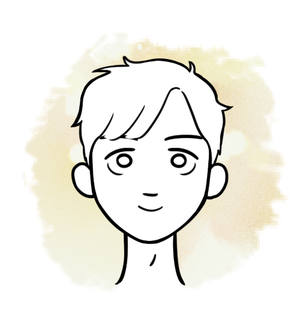
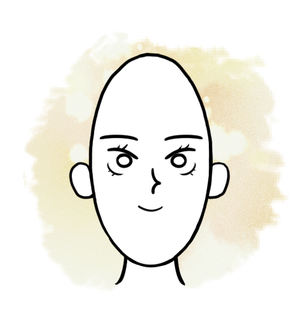
수정

diff --git a/김부용 코드/templates/index.html b/김부용 코드/templates/index.html
@@ -1,7 +1,18 @@
 <!doctype html>
 <html lang="ko">
   <head>
-  <meta charset="utf-8">
+    <meta charset="utf-8">
+    <!-- 1990년 이후 이 페이지의 캐시를 만료시킴. -->
+    <meta http-equiv="Expires" content="Mon, 06 Jan 1990 00:00:01 GMT" />
+
+    <!-- 캐시를 바로 만료시킴. -->
+    <meta http-equiv="Expires" content="-1" />
+
+    <!-- 페이지 로드시마다 페이지를 캐싱하지 않음. (HTTP 1.0) -->
+    <meta http-equiv="Pragma" content="no-cache" />
+
+    <!-- 페이지 로드시마다 페이지를 캐싱하지 않음. (HTTP 1.1) -->
+    <meta http-equiv="Cache-Control" content="no-cache" />
     <title>잘 그려줘!</title>
     <style>
       * {
@@ -14,13 +25,14 @@
     integrity="sha256-/xUj+3OJU5yExlq6GSYGSHk7tPXikynS7ogEvDej/m4="
     crossorigin="anonymous"></script>
   </head>
+
   <body>
     
     <section class="imagesection">
         <h1>잘 그려줘!</h1>
         <h2>2021-2 상명대학교 자연어처리</h2>
         <p> {% if data %}
-            <img class="image" id="imgId" src="{{ url_for('static', filename='images/default2.png')}}" alt="My Image">
+            <img class="image" id="imgId" src="static/images/default2.png?{{data}}" alt="My Image">
             {% else %}
             <img class="image" id="imgId" src="{{ url_for('static', filename='images/default.png')}}" alt="My Image">
             {% endif %}

diff --git a/김부용 코드/face_maker.py b/김부용 코드/face_maker.py
@@ -51,8 +51,12 @@ def face_maker(e_shape_pred = 1, f_shape_pred = 1, h_curl_pred = 1,
 
     bg = Image.open(bg_path)
 
-    back_hair_mask = Image.open(back_hair_mask_path + ".png")
-    back_hair = Image.open(back_hair_path + ".png")
+    if h_length_pred !="민머리":
+        back_hair_mask = Image.open(back_hair_mask_path + ".png")
+        back_hair = Image.open(back_hair_path + ".png")
+    
+        h_bang_mask = Image.open(h_bang_mask_path + ".png")
+        h_bang = Image.open(h_bang_path + ".png")
 
     neck_mask = Image.open(neck_mask_path + ".png")
     neck = Image.open(neck_path + ".png")
@@ -68,12 +72,11 @@ def face_maker(e_shape_pred = 1, f_shape_pred = 1, h_curl_pred = 1,
     e_shape2 = Image.open(e_shape_path2 + ".png")
     e_shape3 = Image.open(e_shape_path3 + ".png")
 
-    h_bang_mask = Image.open(h_bang_mask_path + ".png")
-    h_bang = Image.open(h_bang_path + ".png")
+    if h_length_pred !="민머리":
+        face_components = [bg, back_hair_mask, back_hair, neck_mask, neck, f_shape_mask, f_shape, f_shape2, nose, e_shape, e_shape2, h_bang_mask, h_bang]
+    else:
+        face_components = [bg, neck_mask, neck, f_shape_mask, f_shape, f_shape2, nose, e_shape, e_shape2]
 
-
-    face_components = [bg, back_hair_mask, back_hair, neck_mask, neck, f_shape_mask, f_shape, f_shape2, nose, e_shape, e_shape2, h_bang_mask, h_bang]
-    
     if sex_pred == "남자":
         face_components.append(neck2)
     else:

diff --git a/김부용 코드/data_loader.py b/김부용 코드/data_loader.py
@@ -116,14 +116,21 @@ class PredDataLoader(object):
         # Thus, we use TabularDataset to load two columns in the input file.
         # We would have two separate input file: train_fn, valid_fn
         # Files consist of two columns: label field and text field.
-        train, valid = data.TabularDataset(
+        train, valid = [data.TabularDataset(
             path=train_fn,
             format='tsv', 
             fields=[
                 ('label', self.label),
                 ('text', self.text),
             ],
-        )
+        ).split(), data.TabularDataset(
+            path=train_fn,
+            format='tsv', 
+            fields=[
+                ('label', self.label),
+                ('text', self.text),
+            ],
+        ).split()]
 
         # Those loaded dataset would be feeded into each iterator:
         # train iterator and valid iterator.
@@ -132,12 +139,5 @@ class PredDataLoader(object):
             (train, valid),
             batch_size=batch_size,
             device='cuda:%d' % device if device >= 0 else 'cpu',
-            shuffle=shuffle,
-            sort_key=lambda x: len(x.text),
-            sort_within_batch=True,
         )
 
-        # At last, we make a vocabulary for label and text field.
-        # It is making mapping table between words and indice.
-        self.label.build_vocab(train)
-        self.text.build_vocab(train, max_size=max_vocab, min_freq=min_freq)

diff --git a/김부용 코드/app.py b/김부용 코드/app.py
@@ -37,24 +37,33 @@ def text_input():
         targetLang = 'en'
         #model_id = 'en-ko' # ibm 번역에서 사용, 영어->한국어
         en_text = nt.naver_translation(input_text, sourceLang, targetLang, naver_api_id, naver_api_secret) # 번역된 검색어
+        e_shape_pred = 1
+        f_shape_pred = 1
+        h_curl_pred = 1
+        h_bang_pred = 1
+        h_length_pred = 1
+        nose_pred = 1
+        sex_pred = 1
+    
     
     else:
         en_text = input_text
+        e_shape_pred = 0
+        f_shape_pred = 0
+        h_curl_pred = 0
+        h_bang_pred = 0
+        h_length_pred = 0
+        nose_pred = 0
+        sex_pred = 0
         
     #predict(en_text)
-    e_shape_pred = 1
-    f_shape_pred = 1
-    h_curl_pred = 1
-    h_bang_pred = 1
-    h_length_pred = 1
-    nose_pred = 1
-    sex_pred = 1
-    
+
+    result = ''.join(str(_) for _ in [e_shape_pred, f_shape_pred, h_curl_pred, h_bang_pred, h_length_pred, nose_pred, sex_pred])
+
     face_maker(e_shape_pred, f_shape_pred, h_curl_pred,
                 h_bang_pred, h_length_pred, nose_pred, sex_pred)
 
-    text = "작성하신 글을 바탕으로 생성한 캐릭터입니다."
-    return render_template('index.html', data=text)
+    return render_template('index.html', data=result)
 
 if __name__ == '__main__':
     app.run()

diff --git a/김부용 코드/predict.py b/김부용 코드/predict.py
@@ -71,7 +71,7 @@ def predict(weight_path, text):
     f.close()
 
     loaders = PredDataLoader(
-            train_fn=text,
+            train_fn='testdata/test',
             batch_size=BATCH_SIZE,
             max_vocab=999999, # 크게
             min_freq=5, # 문장의 최소 단어 개수
